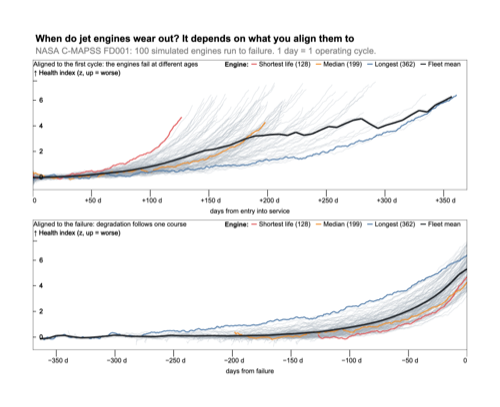
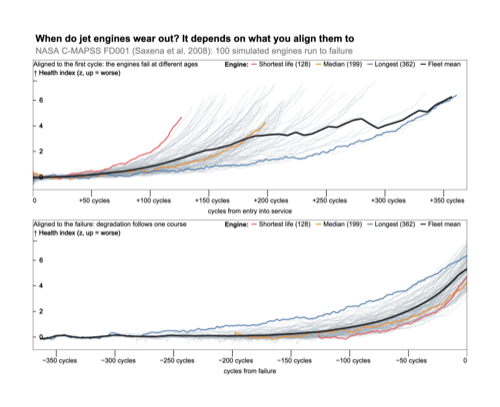
fix(examples): keep two C-MAPSS examples, with axes in cycles and a legend for the prognosis rows
The alignment and prognosis examples stay; fault modes, sensors and conditions are removed (they repeated an anchor
at the last cycle with weekly means). Both axes count cycles (relative.unitName), and the prognosis rows get a
title and a legend in a track of their own. Header legends now list a labeled track once when several visible
tiles hold a copy of it.

diff --git a/editor/example/spec/temporal-data_cmapss-prognosis.ts b/editor/example/spec/temporal-data_cmapss-prognosis.ts
@@ -2,13 +2,14 @@ import type { GoslingSpec } from '@gosling-lang/gosling-schema';
 
 // NASA C-MAPSS FD001 test set: 100 engines whose records stop some time before failure; the true remaining
 // useful life (RUL) at the last record is given separately. The preprocessed CSVs store each engine's failure
-// as a date column (`failure_date` = last cycle + RUL, on the synthetic clock of 1 day per cycle).
+// as a date column (`failure_date` = last cycle + RUL, on the synthetic clock of 1 day per cycle); the axes name
+// the offsets cycles (`relative.unitName`).
 //
 // `anchor: { field: "failure_date" }` reads the reference event from each row, so every engine is aligned to a
 // failure that is not in its records. Top: the health index of every engine ends short of 0. Bottom: one row per
 // engine, sorted by RUL; the blue bar is what was observed, and the orange bar, from the last record to the
-// failure (`span`: last record + RUL in days), is what a prognosis has to predict. The rows have no title and
-// no legend: the header strip of a temporal track is repeated in every row, which 100 rows cannot hold. Both views measure from the
+// failure (`span`: last record + RUL in days), is what a prognosis has to predict. The rows' title and legend are in
+// a track of their own above them: 100 rows leave no room for a header. Both views measure from the
 // same event in the same unit, so they are in one coordinate system and linked: zoom one and the other follows.
 
 const TEST = {
@@ -33,7 +34,7 @@ const BY_RUL = (
 
 const X = {
     type: 'temporal',
-    relative: { anchor: { field: 'failure_date' }, unit: 'day', label: 'the true failure' },
+    relative: { anchor: { field: 'failure_date' }, unit: 'day', unitName: 'cycle', label: 'the true failure' },
     domain: { interval: ['-345 days', '0 days'] },
     axis: 'bottom',
     linkingId: 'failure'
@@ -41,13 +42,13 @@ const X = {
 
 const spec = {
     title: 'How far from failure is each engine when its records stop?',
-    subtitle: 'C-MAPSS FD001 test set. Rows: observed cycles (blue), remaining useful life (orange).',
+    subtitle: 'NASA C-MAPSS FD001 test set (Saxena et al. 2008): 100 simulated engines, each stopped before failure',
     arrangement: 'vertical',
     views: [
         {
             tracks: [
                 {
-                    title: 'Health index of each engine up to its last record (1 day = 1 operating cycle)',
+                    title: 'Health index of each engine up to its last record',
                     data: TEST,
                     mark: 'line',
                     x: { ...X, field: 'date' },
@@ -68,7 +69,26 @@ const spec = {
             ]
         },
         {
+            spacing: 0,
             tracks: [
+                {
+                    // the title and legend of the rows below, which leave no room for a header of their own
+                    title: 'One row per engine, sorted by remaining useful life',
+                    data: ENGINES,
+                    dataTransform: [{ type: 'filter', field: 'unit', oneOf: [] }],
+                    alignment: 'overlay',
+                    x: { ...X, field: 'start_date', axis: 'none' },
+                    tracks: [
+                        {
+                            mark: 'rect',
+                            color: { value: '#4e79a7' },
+                            style: { legendTitle: 'Cycles', legendLabel: 'Observed' }
+                        },
+                        { mark: 'rect', color: { value: '#f9be86' }, style: { legendLabel: 'Remaining useful life' } }
+                    ],
+                    width: 800,
+                    height: 20
+                },
                 {
                     data: ENGINES,
                     alignment: 'overlay',

diff --git a/editor/example/index.ts b/editor/example/index.ts
@@ -69,9 +69,6 @@ import { EX_SPEC_TEMPORAL_RELATIVE_ALIGNMENT } from './spec/temporal-data_relati
 import { EX_SPEC_TEMPORAL_TAXI_SPANS } from './spec/temporal-data_taxi-spans';
 import { EX_SPEC_TEMPORAL_CMAPSS_ALIGNMENT } from './spec/temporal-data_cmapss-alignment';
 import { EX_SPEC_TEMPORAL_CMAPSS_PROGNOSIS } from './spec/temporal-data_cmapss-prognosis';
-import { EX_SPEC_TEMPORAL_CMAPSS_FAULT_MODES } from './spec/temporal-data_cmapss-fault-modes';
-import { EX_SPEC_TEMPORAL_CMAPSS_SENSORS } from './spec/temporal-data_cmapss-sensors';
-import { EX_SPEC_TEMPORAL_CMAPSS_CONDITIONS } from './spec/temporal-data_cmapss-conditions';
 import { EX_SPEC_TEMPORAL_CHRO_RING } from './spec/temporal-data_chro-ring';
 import { EX_SPEC_TEMPORAL_BEIJING_AIR } from './spec/temporal-data_beijing-air';
 import { EX_SPEC_TEMPORAL_NOVELISTS } from './spec/temporal-data_novelists';
@@ -671,7 +668,7 @@ const editorExampleObj: {
         group: 'Temporal Data',
         name: 'Relative: Jet Engines Aligned to Entry into Service or to Failure',
         description:
-            'relative: anchors first and last per engine (groupby); timeUnit week with mean on offsets (simulated data)',
+            'relative: anchors first and last per engine (groupby); timeUnit week with mean on offsets; relative.unitName (cycles)',
         spec: EX_SPEC_TEMPORAL_CMAPSS_ALIGNMENT,
         underDevelopment: true,
         image: THUMBNAILS.TEMPORAL_DATA_CMAPSS_ALIGNMENT
@@ -680,37 +677,10 @@ const editorExampleObj: {
         group: 'Temporal Data',
         name: 'Relative: Jet Engine Prognosis, Aligned to an Unobserved Failure',
         description:
-            'relative: an anchor per row (field); two linked relative views; intervals (x + xe) and a span transform; one row per engine (simulated data)',
+            'relative: an anchor per row (field); two linked relative views; intervals (x + xe) and a span transform; one row per engine; relative.unitName (cycles)',
         spec: EX_SPEC_TEMPORAL_CMAPSS_PROGNOSIS,
         underDevelopment: true,
         image: THUMBNAILS.TEMPORAL_DATA_CMAPSS_PROGNOSIS
-    },
-    TEMPORAL_DATA_CMAPSS_FAULT_MODES: {
-        group: 'Temporal Data',
-        name: 'Relative: Jet Engine Fault Modes, Aligned to Failure',
-        description:
-            'relative: anchor last per engine; timeUnit week with mean per fault mode (simulated data)',
-        spec: EX_SPEC_TEMPORAL_CMAPSS_FAULT_MODES,
-        underDevelopment: true,
-        image: THUMBNAILS.TEMPORAL_DATA_CMAPSS_FAULT_MODES
-    },
-    TEMPORAL_DATA_CMAPSS_SENSORS: {
-        group: 'Temporal Data',
-        name: 'Granularity: Jet Engine Sensors before Failure (zoom)',
-        description:
-            'relative: anchor last per engine; granularity rules on offsets (day, week above 60 days) (simulated data)',
-        spec: EX_SPEC_TEMPORAL_CMAPSS_SENSORS,
-        underDevelopment: true,
-        image: THUMBNAILS.TEMPORAL_DATA_CMAPSS_SENSORS
-    },
-    TEMPORAL_DATA_CMAPSS_CONDITIONS: {
-        group: 'Temporal Data',
-        name: 'Relative: Jet Engine Sensor Normalized by Flight Condition',
-        description:
-            'relative: anchor last per engine; timeUnit week with mean per flight condition (simulated data)',
-        spec: EX_SPEC_TEMPORAL_CMAPSS_CONDITIONS,
-        underDevelopment: true,
-        image: THUMBNAILS.TEMPORAL_DATA_CMAPSS_CONDITIONS
     },
     TEMPORAL_DATA_CHRO_RING: {
         group: 'Temporal Data',

diff --git a/editor/example/spec/temporal-data_cmapss-alignment.ts b/editor/example/spec/temporal-data_cmapss-alignment.ts
@@ -2,7 +2,7 @@ import type { GoslingSpec } from '@gosling-lang/gosling-schema';
 
 // NASA C-MAPSS FD001: 100 simulated turbofan engines run from a healthy state to failure (Saxena et al., PHM08).
 // The data count operational cycles, not dates: the preprocessed CSV gives every engine a synthetic clock
-// (2000-01-01 + 1 day per cycle), so offsets in days read as cycles and dates are never shown.
+// (2000-01-01 + 1 day per cycle), so offsets in days are cycles, and the axis says so (`relative.unitName`).
 // `hi_smooth` is a health index (mean z-score of 12 sensors against the engine's first 30 cycles, up = worse).
 //
 // The two views differ only in the anchor of `x.relative`. Top: each engine from its own first cycle
@@ -45,7 +45,7 @@ function view(anchor: 'first' | 'last', title: string, label: string, interval: 
     const x = {
         field: 'date',
         type: 'temporal',
-        relative: { anchor, groupby: 'unit', unit: 'day', label },
+        relative: { anchor, groupby: 'unit', unit: 'day', unitName: 'cycle', label },
         domain: { interval },
         axis: 'bottom'
     } as const;
@@ -92,7 +92,7 @@ function view(anchor: 'first' | 'last', title: string, label: string, interval: 
 
 const spec = {
     title: 'When do jet engines wear out? It depends on what you align them to',
-    subtitle: 'NASA C-MAPSS FD001: 100 simulated engines run to failure. 1 day = 1 operating cycle.',
+    subtitle: 'NASA C-MAPSS FD001 (Saxena et al. 2008): 100 simulated engines run to failure',
     arrangement: 'vertical',
     views: [
         view('first', 'Aligned to the first cycle: the engines fail at different ages', 'entry into service', [

diff --git a/editor/example/temporal-examples.test.ts b/editor/example/temporal-examples.test.ts
@@ -20,9 +20,6 @@ import { EX_SPEC_TEMPORAL_RELATIVE_ALIGNMENT } from './spec/temporal-data_relati
 import { EX_SPEC_TEMPORAL_TAXI_SPANS } from './spec/temporal-data_taxi-spans';
 import { EX_SPEC_TEMPORAL_CMAPSS_ALIGNMENT } from './spec/temporal-data_cmapss-alignment';
 import { EX_SPEC_TEMPORAL_CMAPSS_PROGNOSIS } from './spec/temporal-data_cmapss-prognosis';
-import { EX_SPEC_TEMPORAL_CMAPSS_FAULT_MODES } from './spec/temporal-data_cmapss-fault-modes';
-import { EX_SPEC_TEMPORAL_CMAPSS_SENSORS } from './spec/temporal-data_cmapss-sensors';
-import { EX_SPEC_TEMPORAL_CMAPSS_CONDITIONS } from './spec/temporal-data_cmapss-conditions';
 import { EX_SPEC_TEMPORAL_CHRO_RING } from './spec/temporal-data_chro-ring';
 import { EX_SPEC_TEMPORAL_BEIJING_AIR } from './spec/temporal-data_beijing-air';
 import { EX_SPEC_TEMPORAL_NOVELISTS } from './spec/temporal-data_novelists';
@@ -56,9 +53,6 @@ const examples: Record<string, GoslingSpec> = {
     'spans: taxi': EX_SPEC_TEMPORAL_TAXI_SPANS,
     'relative: C-MAPSS alignment': EX_SPEC_TEMPORAL_CMAPSS_ALIGNMENT,
     'relative: C-MAPSS prognosis': EX_SPEC_TEMPORAL_CMAPSS_PROGNOSIS,
-    'relative: C-MAPSS fault modes': EX_SPEC_TEMPORAL_CMAPSS_FAULT_MODES,
-    'granularity: C-MAPSS sensors': EX_SPEC_TEMPORAL_CMAPSS_SENSORS,
-    'relative: C-MAPSS conditions': EX_SPEC_TEMPORAL_CMAPSS_CONDITIONS,
     'Chro-Ring': EX_SPEC_TEMPORAL_CHRO_RING,
     'calendar: Beijing air': EX_SPEC_TEMPORAL_BEIJING_AIR,
     'relative: novelists': EX_SPEC_TEMPORAL_NOVELISTS,

diff --git a/editor/example/thumbnails.ts b/editor/example/thumbnails.ts
@@ -46,9 +46,6 @@ import TEMPORAL_DATA_RELATIVE_ALIGNMENT from './thumbnails/TEMPORAL_DATA_RELATIV
 import TEMPORAL_DATA_TAXI_SPANS from './thumbnails/TEMPORAL_DATA_TAXI_SPANS.png';
 import TEMPORAL_DATA_CMAPSS_ALIGNMENT from './thumbnails/TEMPORAL_DATA_CMAPSS_ALIGNMENT.png';
 import TEMPORAL_DATA_CMAPSS_PROGNOSIS from './thumbnails/TEMPORAL_DATA_CMAPSS_PROGNOSIS.png';
-import TEMPORAL_DATA_CMAPSS_FAULT_MODES from './thumbnails/TEMPORAL_DATA_CMAPSS_FAULT_MODES.png';
-import TEMPORAL_DATA_CMAPSS_SENSORS from './thumbnails/TEMPORAL_DATA_CMAPSS_SENSORS.png';
-import TEMPORAL_DATA_CMAPSS_CONDITIONS from './thumbnails/TEMPORAL_DATA_CMAPSS_CONDITIONS.png';
 import TEMPORAL_DATA_CHRO_RING from './thumbnails/TEMPORAL_DATA_CHRO_RING.png';
 import TEMPORAL_DATA_BEIJING_AIR from './thumbnails/TEMPORAL_DATA_BEIJING_AIR.png';
 import TEMPORAL_DATA_NOVELISTS from './thumbnails/TEMPORAL_DATA_NOVELISTS.png';
@@ -101,9 +98,6 @@ export const THUMBNAILS = {
     TEMPORAL_DATA_TAXI_SPANS,
     TEMPORAL_DATA_CMAPSS_ALIGNMENT,
     TEMPORAL_DATA_CMAPSS_PROGNOSIS,
-    TEMPORAL_DATA_CMAPSS_FAULT_MODES,
-    TEMPORAL_DATA_CMAPSS_SENSORS,
-    TEMPORAL_DATA_CMAPSS_CONDITIONS,
     TEMPORAL_DATA_CHRO_RING,
     TEMPORAL_DATA_BEIJING_AIR,
     TEMPORAL_DATA_NOVELISTS

diff --git a/src/core/mark/temporal-header.test.ts b/src/core/mark/temporal-header.test.ts
@@ -48,6 +48,16 @@ describe('header strip of temporal linear tracks (G1, G6)', () => {
         ]);
     });
 
+    it('lists a labeled track once when several visible tiles hold a copy of it', () => {
+        const observed = { mark: 'rect', color: { value: 'blue' }, style: { legendLabel: 'Observed' } };
+        const remaining = { mark: 'rect', color: { value: 'orange' }, style: { legendLabel: 'Remaining' } };
+        const legend = headerLegend(
+            [track(observed), track(remaining), track(observed), track(remaining)],
+            spec => colorCategories(spec, [])
+        );
+        expect(legend.entries.map(e => e.label)).toEqual(['Observed', 'Remaining']);
+    });
+
     it('reads categories from the data, in the order of the domain', () => {
         const spec = track({ color: { field: 's', type: 'nominal' } });
         expect(colorCategories(spec, [{ s: 'x' }, { s: 'y' }, { s: 'x' }])).toEqual(['x', 'y']);

diff --git a/src/core/mark/temporal-header.ts b/src/core/mark/temporal-header.ts
@@ -79,6 +79,10 @@ export function headerLegend(specs: SingleTrack[], categories: (spec: SingleTrac
                 entries.push({ label: category, spec, category });
             });
         } else if (spec.style?.legendLabel && IsChannelValue(spec.color)) {
+            // once per member, also when several visible tiles each hold a copy of it
+            const key = `\u0001${spec.style.legendLabel}\u0000${spec.color.value}`;
+            if (seen.has(key)) return;
+            seen.add(key);
             entries.push({ label: spec.style.legendLabel, spec });
         }
     });
